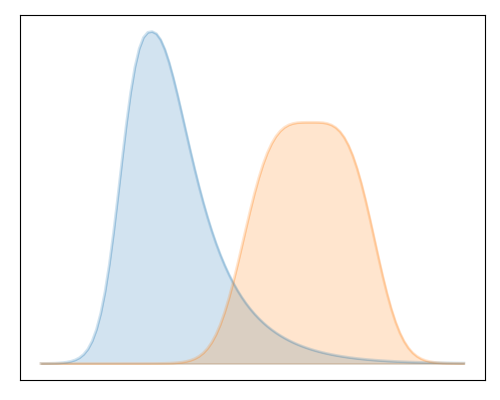
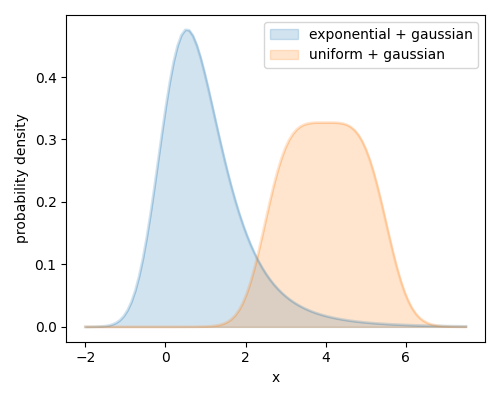
Redesign of gallery image for density estimation

diff --git a/docs/source/images/gallery_images/gallery_density_estimation.py b/docs/source/images/gallery_images/gallery_density_estimation.py
@@ -20,12 +20,15 @@ pdf2 = UnimodalPdf(s2)
 fig = plt.figure(figsize = (5,4))
 ax = fig.add_subplot(111)
 ax.plot(pdf_axis, pdf1(pdf_axis), alpha = 0.2, c = 'C0', lw=2)
-ax.fill_between(pdf_axis, pdf1(pdf_axis), alpha = 0.2, color = 'C0')
+ax.fill_between(pdf_axis, pdf1(pdf_axis), alpha = 0.2, color = 'C0', label = 'exponential + gaussian')
 ax.plot(pdf_axis, pdf2(pdf_axis), alpha = 0.2, c = 'C1', lw=2)
-ax.fill_between(pdf_axis, pdf2(pdf_axis), alpha = 0.2, color = 'C1')
-ax.set_xticks([])
-ax.set_yticks([])
+ax.fill_between(pdf_axis, pdf2(pdf_axis), alpha = 0.2, color = 'C1', label = 'uniform + gaussian')
+# ax.set_xticks([])
+# ax.set_yticks([])
+ax.set_xlabel('x')
+ax.set_ylabel('probability density')
 # ax.set_title('Density estimation')
+ax.legend()
 plt.tight_layout()
 plt.savefig('gallery_density_estimation.png')
 plt.show()
